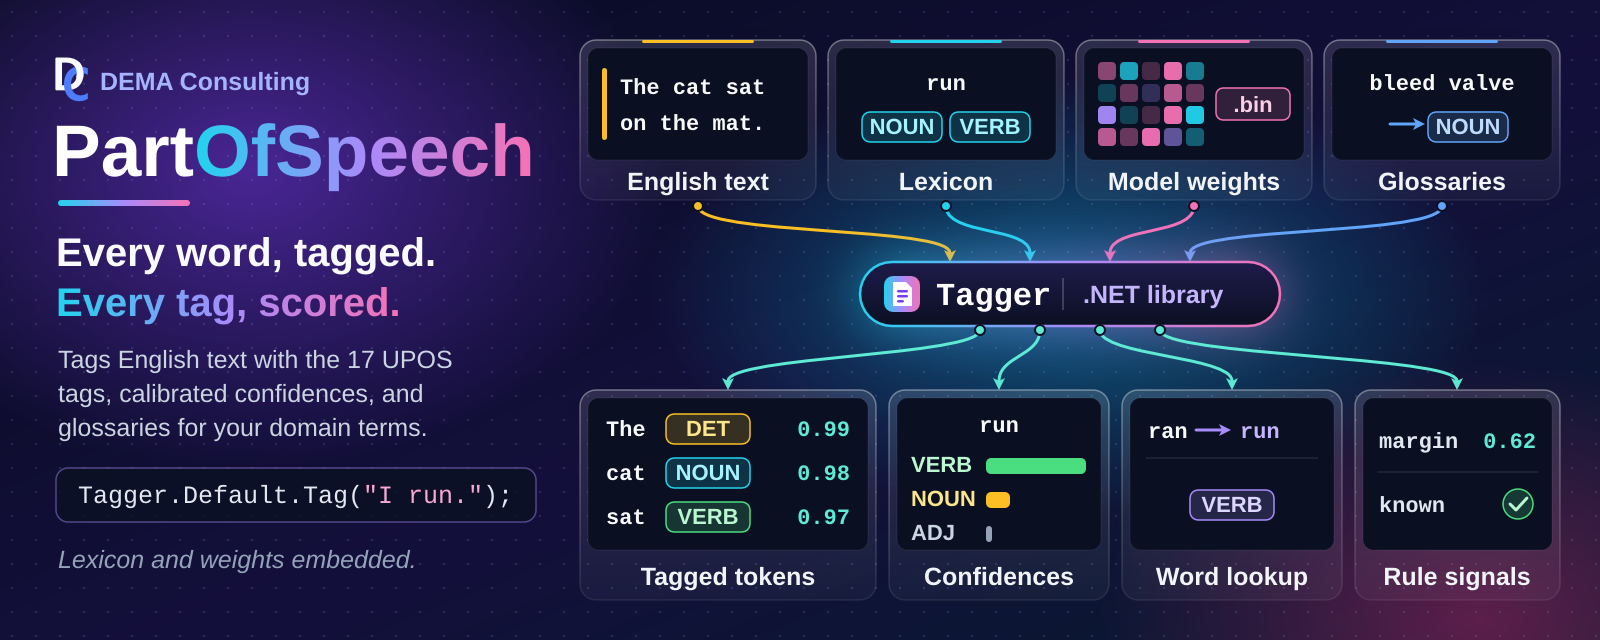
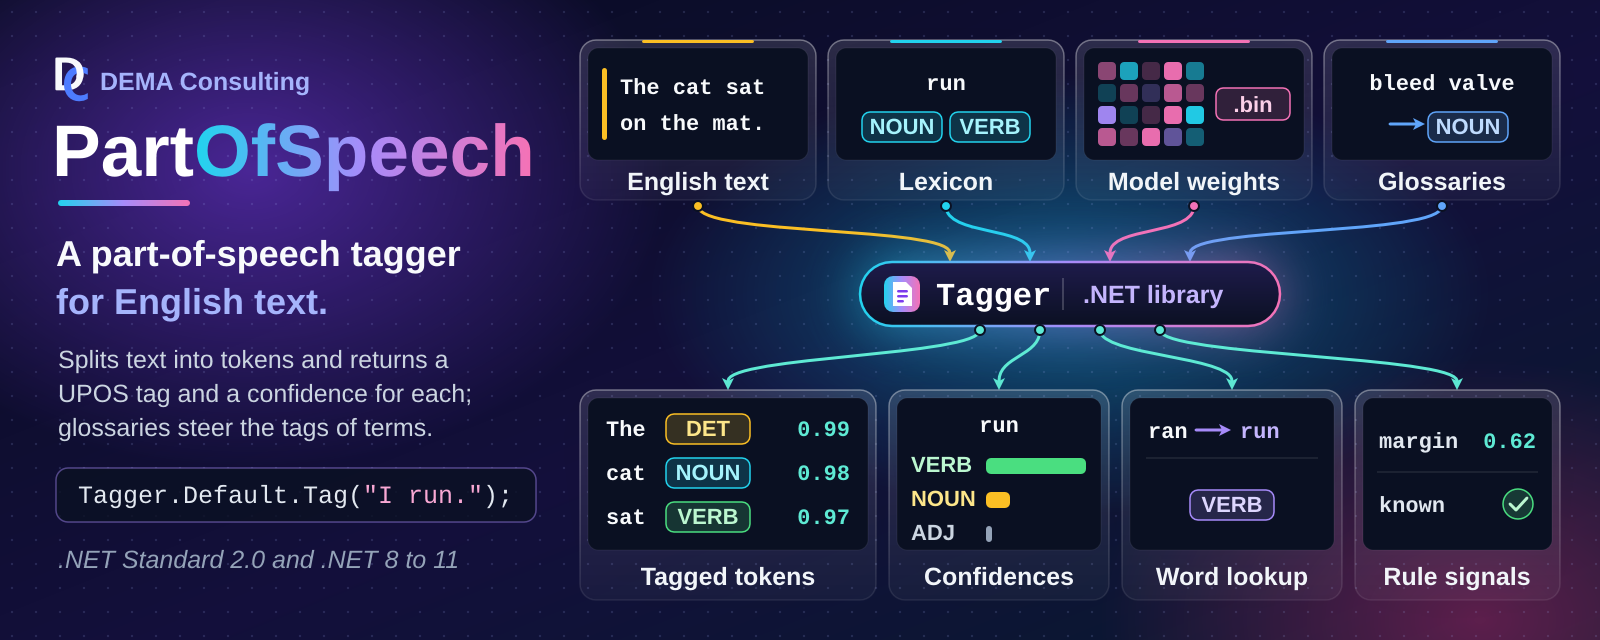
Sync agents/template and calm the README hero (#37)
* Sync shared agents, skills and standards from Agents main

Copies .github/agents, skills and standards verbatim (Agents #60, #62, #64),
applies the src/AGENTS.md changes (Project Scripts section, fix.ps1/lint.ps1 no
longer protected) and records the legacy SysML2 package layout as a
repository-specific exception.

* Sync reference template: yamlfix comment rule and script customization headers

Applies Agents template #61 (comments_require_starting_space = false) and #63
(CUSTOMIZATION header comments in build.ps1, lint.ps1 and fix.ps1). Script
behavior is unchanged.

* Calm the README hero and make it the H1

Plain tagline (A part-of-speech tagger / for English text.) without gradient,
factual body and footnote, 36px tagline per the template (Agents template #66,
#67). The hero image is now the README H1 with a short alt text.

* AGENTS.md: correct the count of files reopening the PartOfSpeech package

---------

Changed region(s): [[0.0312, 0.5312, 0.3125, 0.6875], [0.0312, 0.375, 0.2812, 0.5], [0.0312, 0.8438, 0.2812, 0.9062]]

diff --git a/.github/standards/sysml2-modeling.md b/.github/standards/sysml2-modeling.md
@@ -31,15 +31,15 @@ docs/sysml2/
 ├── common/
 │   └── software-items.sysml           # shared SoftwareItemMetadata::SoftwareInfo metadata def
 ├── model/
-│   ├── {system-name}.sysml            # system-level part def only (no subsystems/units inline)
+│   ├── {system-name}.sysml            # package {SystemName}; system-level part def only (no subsystems/units inline)
 │   ├── {system-name}/
-│   │   ├── {subsystem-name}.sysml     # subsystem part def; nests further for sub-subsystems
+│   │   ├── {subsystem-name}.sysml     # package {SystemName}_{SubsystemName}Subsystem; nests further for sub-subsystems
 │   │   └── {subsystem-name}/
-│   │       └── {unit-name}.sysml      # one file per unit
-│   ├── ots.sysml                      # OTS dependency parts (optional; if OTS items exist)
-│   └── shared.sysml                   # Shared Package parts (optional; if Shared Packages exist)
+│   │       └── {unit-name}.sysml      # package {SystemName}_{UnitName}; one file per unit
+│   ├── ots.sysml                      # package OtsDependencies: OTS parts (optional; if OTS items exist)
+│   └── shared.sysml                   # package SharedPackages: Shared Package parts (optional; if Shared Packages exist)
 └── views/
-    └── design-views.sysml             # named view usages rendered for the design document
+    └── design-views.sysml             # package {RepoName}DesignViews; named view usages rendered for the design document
 ```
 
 `docs/sysml2/common/software-items.sysml` defines the `SoftwareItemMetadata::SoftwareInfo`
@@ -62,14 +62,42 @@ so no single alias name would generalize. Agents discover the system(s) present 
 `docs/sysml2/**/*.sysml`, not by assuming a fixed name.
 
 Always pass the full set of `.sysml` files (or an equivalent glob) to every `sysml2tools`
-invocation — the model spans multiple files and cross-references between them; files sharing
-the same `package Name { ... }` merge into one namespace automatically with no `import`
-required, as long as all files are passed together. As of `sysml2tools` 0.1.0-beta.5,
+invocation — the model spans multiple files and cross-references between them, and a
+reference only resolves when the file declaring its target is loaded (see Package Structure
+below for how files reference each other). As of `sysml2tools` 0.1.0-beta.5,
 `lint` and `render` both expand `*`/`**` glob patterns internally (recursing correctly into
 subdirectories), so pass a single **quoted** glob string (e.g. `'docs/sysml2/**/*.sysml'`)
 and let the tool resolve it — do not rely on the shell to expand it, and do not quote-strip
 the pattern before it reaches the tool. Quoting keeps the behavior identical across
 PowerShell and bash, since neither shell needs to (or reliably does) expand `**` itself.
+
+## Package Structure
+
+SysML v2 has no package merging: each file is its own root namespace, and two root packages
+with the same name are duplicate members of the global namespace (the OMG Pilot
+Implementation reports "Duplicate of other owned member name" for each, and references across
+the halves do not resolve). A model that only loads because a tool is lenient is not portable,
+so:
+
+- Each `.sysml` file declares **exactly one uniquely named package**, and a package is never
+  declared (or "reopened") in more than one file.
+- Name each package from its place in the hierarchy, joined with an underscore:
+  `{SystemName}` for the system file, `{SystemName}_{SubsystemName}Subsystem` for a subsystem
+  (including a nested sub-subsystem, which is not prefixed with its parent subsystem), and
+  `{SystemName}_{UnitName}` for a unit. The system prefix keeps names unique across systems.
+  The shared files use `OtsDependencies` and `SharedPackages`, and the single views file uses
+  one repository-level package, `{RepoName}DesignViews` (not one per system).
+- Package names must be unique **repository-wide**. The short forms above are the default;
+  when one would collide (two `Storage` subsystems in different branches, or two units named
+  `Cache` in different subsystems), qualify it with the owning subsystem path, for example
+  `{SystemName}_{SubsystemName}_{UnitName}` (`Acme_Ingest_Cache` and `Acme_Query_Cache`).
+- Reference other files with an explicit `private import {PackageName}::*;` (a system or
+  subsystem file imports the package of each direct member so its `part` usages resolve; every
+  file that applies `SoftwareInfo` imports `SoftwareItemMetadata::*`).
+- Where an import would form a cycle (for example a unit that depends on a package that
+  already imports it), or for a one-off reference into another system, use the qualified name
+  instead, e.g. `dependency {UnitName} to {SystemName}_{OtherUnit}::{OtherUnit};`.
+  Import cycles raise a lint warning; qualified references do not.
 
 ## Model Content
 
@@ -174,11 +202,13 @@ Views control what gets rendered into diagrams for the design document. Use name
 **usages** (not `view def` **definitions**) — `expose` is only valid inside a usage:
 
 ```sysml
-package {SystemName} {
+package {RepoName}DesignViews {
     private import StandardViewDefinitions::*;
+    private import {SystemName}::*;
+    private import {SystemName}_{SubsystemName}Subsystem::*;
 
     view SoftwareStructureView : InterconnectionView {
-        expose {SystemName}::**;     // all members, recursively: system + subsystems + units
+        expose {SystemName}::{SystemName}System::**;  // system part def, recursively: subsystems + units
     }
 
     view {SystemName}View {
@@ -186,10 +216,12 @@ package {SystemName} {
     }
 
     view {SubsystemName}View {
-        expose {SubsystemName};      // one subsystem def only
+        expose {SubsystemName}Subsystem;      // one subsystem def only
     }
 }
 ```
+
+Views import (or qualify) every package whose members they expose, like any other file.
 
 Type `SoftwareStructureView` by a standard view definition from the SysML v2 Views library
 (`GeneralView`, `InterconnectionView`, ...; requires `sysml2tools` 0.3.0-beta.3+). The view
@@ -223,25 +255,27 @@ There is no dedicated `DependencyView`/`{SubsystemName}DependencyView` diagram c
 above), not rendered.
 
 When a repository has multiple systems, type `SoftwareStructureView` by `GeneralView`,
-expose each system package's members, and filter out documentation so the overview stays
-readable — the general view draws one package frame per system, while an interconnection
-view places all systems in a single row:
+expose each system's part def (and each subsystem's, by qualified name), and filter out
+documentation so the overview stays readable — the general view draws one package frame per
+system, while an interconnection view places all systems in a single row:
 
 ```sysml
 package {RepoName}DesignViews {
     private import StandardViewDefinitions::*;
 
     view SoftwareStructureView : GeneralView {
-        expose {SystemNameA}::**;
-        expose {SystemNameB}::**;
-        filter not @SysML::Documentation;
+        expose {SystemNameA}::{SystemNameA}System;
+        expose {SystemNameA}_{SubsystemName}Subsystem::{SubsystemName}Subsystem;
+        expose {SystemNameB}::{SystemNameB}System;
+        filter not (@SysML::Documentation);
     }
 }
 ```
 
 Documentation (`doc`) is exposed with its owner and drawn as a `doc` compartment unless a
-view filters it out; use `filter not @SysML::Documentation;` wherever doc text would clutter
-a diagram.
+view filters it out; use `filter not (@SysML::Documentation);` wherever doc text would clutter
+a diagram. The parentheses are required: the SysML v2 grammar does not accept the unparenthesized
+`filter not @SysML::Documentation;`.
 
 ## Diagram Embedding
 
@@ -313,6 +347,9 @@ sync.
   `sourceFiles`; the purpose statement appears only in the `doc` comment, never in `SoftwareInfo`
 - [ ] `docs/sysml2/views/design-views.sysml` uses `view Name { expose ...; }` usages, not
   `view def` definitions
+- [ ] Each `.sysml` file declares exactly one uniquely named package (never the same package
+  in two files), named per Package Structure, and references other files through
+  `private import` or qualified names (qualified where an import would form a cycle)
 - [ ] View names follow the `SoftwareStructureView` / `{SystemName}View` /
   `{SubsystemName}View` convention (no dedicated `DependencyView`)
 - [ ] Each Unit's real collaborators are captured as `dependency A to B;` statements, and each

diff --git a/.github/skills/sysml2tools-query/SKILL.md b/.github/skills/sysml2tools-query/SKILL.md
@@ -21,11 +21,15 @@ dotnet tool restore
 ## Model files
 
 - `docs/sysml2/model/{system-name}.sysml` — system-level `part def` only (no subsystems/units
-  inline). A repository may contain more than one system.
+  inline), in package `{SystemName}`. A repository may contain more than one system.
 - `docs/sysml2/model/{system-name}/{subsystem-name}.sysml` and
   `docs/sysml2/model/{system-name}/{subsystem-name}/{unit-name}.sysml` — one file per
   Subsystem/Unit, nested to mirror the same folder depth as that item's companion
-  `docs/design/`, `docs/reqstream/`, and `docs/verification/` files.
+  `docs/design/`, `docs/reqstream/`, and `docs/verification/` files. Each declares its own
+  uniquely named package; by default `{SystemName}_{SubsystemName}Subsystem` or
+  `{SystemName}_{UnitName}`, qualified with the subsystem path
+  (`{SystemName}_{SubsystemName}_{UnitName}`) when the short name would collide. An element's
+  qualified name is e.g. `{SystemName}_{UnitName}::{UnitName}`.
 - `docs/sysml2/model/ots.sysml` — off-the-shelf (OTS) dependency parts (present when OTS items
   exist).
 - `docs/sysml2/model/shared.sysml` — Shared Package parts (present when Shared Package items
@@ -35,9 +39,10 @@ dotnet tool restore
   useful to see how diagrams are scoped.
 
 Always pass all `.sysml` files (or a glob covering them) to every `sysml2tools`
-invocation — the model spans multiple files and cross-references between them; files that
-reopen the same `package Name { ... }` from different files merge into one namespace
-automatically, no `import` required. As of `sysml2tools` 0.1.0-beta.5, every subcommand
+invocation — the model spans multiple files and cross-references between them (each file
+declares one uniquely named package and references others through `import` or qualified
+names; same-named packages in different files are not merged), so every file a reference
+points at must be loaded. As of `sysml2tools` 0.1.0-beta.5, every subcommand
 (`lint`, `render`, `query`) expands `*`/`**` glob patterns internally and recurses
 correctly — pass a single **quoted** glob string and let the tool resolve it, rather than
 relying on the shell (quoting works identically in both PowerShell and bash):
@@ -57,7 +62,7 @@ summary line, so one query gets you every artifact location for that item withou
 the source tree:
 
 ```pwsh
-dotnet sysml2tools query describe -e {SystemName}::{UnitName} 'docs/sysml2/**/*.sysml'
+dotnet sysml2tools query describe -e {SystemName}_{UnitName}::{UnitName} 'docs/sysml2/**/*.sysml'
 ```
 
 ```text

diff --git a/AGENTS.md b/AGENTS.md
@@ -161,7 +161,17 @@ requires it and the modification preserves the documented design intent:
 
 - `.reviewmark.yaml`, `.textlint.yaml`, `.editorconfig`
 - `.lintmark.yaml`, `.yamllint.yaml`
-- `requirements.yaml`, `fix.ps1`, `lint.ps1`
+- `requirements.yaml`
+
+# Project Scripts
+
+`build.ps1`, `lint.ps1`, and `fix.ps1` belong to the project: extend them as it grows. Add project-specific
+steps, update tool versions, and add optional parameters that focus a run (for example one library in a
+multi-library repository, or headless tests without GUI automation). Two rules keep them trustworthy:
+
+- Run with no arguments, each script still does its full job (CI and the agents rely on that); slow or
+  environment-dependent test tiers may be opt-in switches of `build.ps1`.
+- Never remove or weaken a check to make lint or tests pass.
 
 # Repository-Specific Standards Exceptions
 
@@ -179,6 +189,14 @@ requires it and the modification preserves the documented design intent:
   `PartOfSpeech-Tagging-Tagger-PossibleTagsInput` promise what those buffers hold after a call and how large they grow,
   which no public API can show. Do not add tests of this kind for
   anything else; performance and memory properties are measured by the opt-in benchmarks in `benchmarks/`.
+
+## SysML2 package structure (legacy layout, migration pending)
+
+The model under `docs/sysml2/` predates the `sysml2-modeling.md` Package Structure rules: package `PartOfSpeech`
+is reopened across 18 files (the system file, 16 subsystem/unit files under `model/part-of-speech/`, and
+`views/design-views.sysml`, which uses `PartOfSpeech` instead of `PartOfSpeechDesignViews`). The Package Structure
+rules and the `sysml2tools-query` qualified-name examples apply once the model is migrated in a dedicated PR; until
+then agents use the existing package names and must not partially restructure the model.
 
 # Continuous Compliance Overview
 

diff --git a/.github/skills/docdown/SKILL.md b/.github/skills/docdown/SKILL.md
@@ -21,7 +21,9 @@ dotnet docdown --help
 
 ## Scratch Folder
 
-The default `--overwrite clean` deletes everything in the scratch folder, so always pass a new
+The default `--overwrite clean` only replaces an earlier DocDown extraction: it deletes the files that
+folder's DocDown manifest lists and refuses to run if the folder holds anything else
+(`--overwrite overwrite` deletes everything and is never needed here). Still, always pass a new
 subfolder dedicated to the one document - never an existing folder:
 
 - **Preferred**: the agent session folder, when the host provides one, for example
@@ -39,8 +41,9 @@ Never extract into the repository.
    dotnet docdown --input path/to/data-sheet.pdf --scratch {scratch}/data-sheet
    ```
 
-   The last line of output is the path to `summary.txt`. Exit code `1` means the document was
-   unreadable or an argument was bad.
+   The last line of output is the path to `summary.txt`. Exit code `1` means the run failed for an
+   expected reason - an unreadable document, a bad argument, or an option such as `--log` whose file
+   could not be opened; the message says which.
 
 2. Read `summary.txt` first: what was extracted, what is where, and notes on anything that could
    not be read.

diff --git a/.github/agents/orchestrator.agent.md b/.github/agents/orchestrator.agent.md
@@ -48,3 +48,16 @@ briefly, what you loaded.
   let the user answer in their own words. Do not batch decisions into structured question forms (such as an
   `ask_user` tool); they strip away the context the user needs to decide and turn the session into a
   questionnaire.
+
+# Pull Requests (MANDATORY)
+
+Aim for pull requests that each merge one complete, useful change that could be cherry-picked on its own.
+
+- Before starting work that could span more than one pull request, propose the grouping and let the user
+  decide. The user may split it, or combine several small requests into one pull request.
+- When splitting, split by behavior, not by layer or file type: each part carries its own code, tests,
+  requirements, and docs, builds and passes alone, and leaves no stubs or dead code for a later part.
+- Deliver parts in order: start the next part from main only after the previous one merges.
+- Review fixes, lint fixes, and follow-ups go into the open pull request they belong to, not a new one.
+- Sub-agents work on the agreed branch and do not open pull requests; you decide when it is complete.
+- Keep mechanical churn (formatting, renames, generated files) in its own commit so reviewers can skip it.

diff --git a/.github/agents/planning.agent.md b/.github/agents/planning.agent.md
@@ -52,10 +52,13 @@ Repeat up to 2 more times, stopping when the plan is stable.
 
 List up to 5 risks with a brief mitigation for each.
 
-## Step 6 — Feasibility Assessment
+## Step 6 — Feasibility and Delivery
 
 State whether this can be implemented in a single development pass and any
-preconditions that affect feasibility.
+preconditions that affect feasibility. Propose how the work groups into pull
+requests: one complete, useful change per pull request where possible; if it
+should be split, list ordered parts that are split by behavior (not by layer or
+file type) and each build, pass, and deliver something on their own.
 
 ## Step 7 — Recommendation
 
@@ -108,9 +111,12 @@ Then respond to the caller with ONLY the lean structured summary below.
 
 1. **[severity]** {risk} — {mitigation}
 
-## Feasibility Assessment
+## Feasibility and Delivery
 
 {Single-pass or not, and why. Any preconditions.}
+
+{Proposed pull-request grouping: one pull request, or ordered parts split by behavior,
+each with what it delivers on its own.}
 
 ## Unknowns
 

diff --git a/README.md b/README.md
@@ -1,4 +1,4 @@
-# Part Of Speech
+# ![PartOfSpeech: A part-of-speech tagger for English text][hero]
 
 [![GitHub forks][badge-forks]][link-forks]
 [![GitHub stars][badge-stars]][link-stars]
@@ -8,8 +8,6 @@
 [![Quality Gate][badge-quality]][link-quality]
 [![Security][badge-security]][link-security]
 [![NuGet][badge-nuget]][link-nuget]
-
-![PartOfSpeech banner: the PartOfSpeech name with the tagline 'Every word, tagged. Every tag, scored.' and the C# call 'Tagger.Default.Tag("I run.");'. English text, the embedded lexicon with the tags each word allows, the embedded trained model weights, and glossaries of domain terms flow on curved arrows into the Tagger of the .NET library, and arrows lead out to what it returns: tagged tokens with a UPOS tag and a confidence each, the confidences of the ranked alternatives, word lookups with the base word and possible tags, and rule checker signals such as the margin and the known-word flag][hero]
 
 .NET library for part-of-speech tagging of English text, with calibrated confidences.
 
